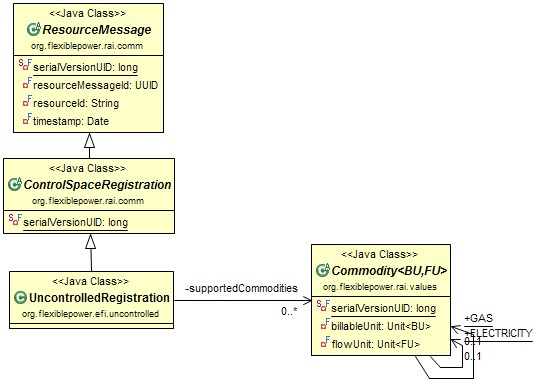
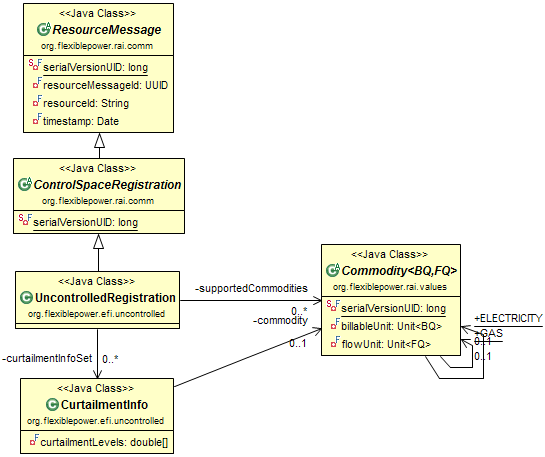
Added curtailment information to UncontrolledRegistration.

diff --git a/flexiblepower.api.efi/src/org/flexiblepower/efi/uncontrolled/UncontrolledRegistration.java b/flexiblepower.api.efi/src/org/flexiblepower/efi/uncontrolled/UncontrolledRegistration.java
@@ -10,9 +10,15 @@ public class UncontrolledRegistration extends ControlSpaceRegistration {
 
     private final Set<Commodity> supportedCommodities;
 
-    public UncontrolledRegistration(String resourceId, Date timestamp, Set<Commodity> supportedCommodities) {
+    private final Set<CurtailmentInfo> curtailmentInfoSet;
+
+    public UncontrolledRegistration(String resourceId,
+                                    Date timestamp,
+                                    Set<Commodity> supportedCommodities,
+                                    Set<CurtailmentInfo> curtailmentInfoSet) {
         super(resourceId, timestamp);
         this.supportedCommodities = supportedCommodities;
+        this.curtailmentInfoSet = curtailmentInfoSet;
     }
 
     public Set<Commodity> getSupportedCommodities() {

diff --git a/flexiblepower.api.efi/src/org/flexiblepower/efi/uncontrolled/CurtailmentInfo.java b/flexiblepower.api.efi/src/org/flexiblepower/efi/uncontrolled/CurtailmentInfo.java
@@ -1,0 +1,13 @@
+package org.flexiblepower.efi.uncontrolled;
+
+import org.flexiblepower.rai.values.Commodity;
+
+public class CurtailmentInfo {
+    private final Commodity commodity;
+    private final double[] curtailmentLevels;
+
+    public CurtailmentInfo(Commodity commodity, double[] curtailmentLevels) {
+        this.commodity = commodity;
+        this.curtailmentLevels = curtailmentLevels;
+    }
+}
